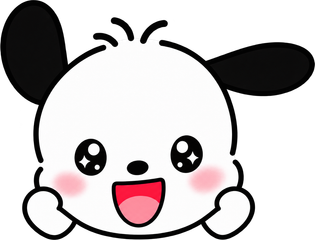
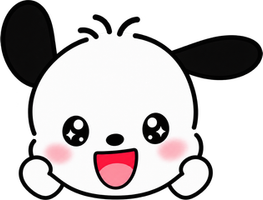
꼼톡 이모티콘 다듬기 — 크기 통일·heli 확대·탭 줄바꿈 수정
- 커플 스티커 여백 제거(tight crop)+높이 200 통일 → 피커에서 다 같은 크기 (pat 729→263px 등)
- heli 전송 크기 w-74vw→88vw(max 560) 대폭 확대 → 화면 꽉 참
- 스티커 탭 버튼 shrink-0 whitespace-nowrap + 컨테이너 overflow-x-auto → '미니' 줄바꿈 해결

diff --git a/src/components/ChatPanel.tsx b/src/components/ChatPanel.tsx
@@ -517,7 +517,7 @@ export default function ChatPanel({ me, partner, messages, open, onClose, onSend
                           <video src={m.sticker} poster={posterOf(m.sticker)} autoPlay loop muted playsInline
                             className="w-40 h-40 rounded-[26px] object-cover bg-white shadow-sm" />
                         ) : FULL_STICKERS.has(m.sticker) ? (
-                          <motion.img src={m.sticker} alt="이모티콘" className="w-[74vw] max-w-[300px] h-auto rounded-2xl shadow-sm"
+                          <motion.img src={m.sticker} alt="이모티콘" className="w-[88vw] max-w-[560px] h-auto rounded-2xl shadow-sm"
                             initial={{ scale: 0.6, opacity: 0 }}
                             animate={{ scale: 1, opacity: 1 }}
                             transition={{ scale: { type: 'spring', stiffness: 300, damping: 20 }, opacity: { duration: 0.2 } }} />
@@ -577,14 +577,14 @@ export default function ChatPanel({ me, partner, messages, open, onClose, onSend
           {/* 이모티콘 피커 (스티커=크게 따로 / 미니=글자 사이 인라인) */}
           {stickerOpen && (
             <div className="px-3 pt-2 pb-1 bg-white/80 backdrop-blur-md border-t border-black/5">
-              <div className="flex items-center gap-1 mb-2">
-                <button onClick={() => setStickerMode('sticker')} className={`px-3 py-1 rounded-full text-[12px] font-bold transition ${stickerMode === 'sticker' ? 'bg-[#FB7BA8] text-white' : 'bg-black/5 text-slate-500'}`}>스티커</button>
-                <button onClick={() => setStickerMode('mini')} className={`px-3 py-1 rounded-full text-[12px] font-bold transition ${stickerMode === 'mini' ? 'bg-[#FB7BA8] text-white' : 'bg-black/5 text-slate-500'}`}>미니</button>
-                <button onClick={() => setStickerMode('couple')} className={`px-3 py-1 rounded-full text-[12px] font-bold transition ${stickerMode === 'couple' ? 'bg-[#FB7BA8] text-white' : 'bg-black/5 text-slate-500'}`}>커플</button>
-                <button onClick={() => setStickerMode('dang')} className={`px-3 py-1 rounded-full text-[12px] font-bold transition ${stickerMode === 'dang' ? 'bg-[#FB7BA8] text-white' : 'bg-black/5 text-slate-500'}`}>Dang&apos;s</button>
-                <button onClick={() => setStickerMode('kkom')} className={`px-3 py-1 rounded-full text-[12px] font-bold transition ${stickerMode === 'kkom' ? 'bg-[#FB7BA8] text-white' : 'bg-black/5 text-slate-500'}`}>kkom&apos;s</button>
-                {stickerMode === 'mini' && <span className="ml-1 text-[11px] text-slate-400">글자 사이에 콕콕 넣기</span>}
-                {stickerMode === 'couple' && <span className="ml-1 text-[11px] text-slate-400">움직이는 커플 · 톡엔 (단어)로도</span>}
+              <div className="flex items-center gap-1 mb-2 overflow-x-auto">
+                <button onClick={() => setStickerMode('sticker')} className={`shrink-0 whitespace-nowrap px-3 py-1 rounded-full text-[12px] font-bold transition ${stickerMode === 'sticker' ? 'bg-[#FB7BA8] text-white' : 'bg-black/5 text-slate-500'}`}>스티커</button>
+                <button onClick={() => setStickerMode('mini')} className={`shrink-0 whitespace-nowrap px-3 py-1 rounded-full text-[12px] font-bold transition ${stickerMode === 'mini' ? 'bg-[#FB7BA8] text-white' : 'bg-black/5 text-slate-500'}`}>미니</button>
+                <button onClick={() => setStickerMode('couple')} className={`shrink-0 whitespace-nowrap px-3 py-1 rounded-full text-[12px] font-bold transition ${stickerMode === 'couple' ? 'bg-[#FB7BA8] text-white' : 'bg-black/5 text-slate-500'}`}>커플</button>
+                <button onClick={() => setStickerMode('dang')} className={`shrink-0 whitespace-nowrap px-3 py-1 rounded-full text-[12px] font-bold transition ${stickerMode === 'dang' ? 'bg-[#FB7BA8] text-white' : 'bg-black/5 text-slate-500'}`}>Dang&apos;s</button>
+                <button onClick={() => setStickerMode('kkom')} className={`shrink-0 whitespace-nowrap px-3 py-1 rounded-full text-[12px] font-bold transition ${stickerMode === 'kkom' ? 'bg-[#FB7BA8] text-white' : 'bg-black/5 text-slate-500'}`}>kkom&apos;s</button>
+                {stickerMode === 'mini' && <span className="ml-1 shrink-0 whitespace-nowrap text-[11px] text-slate-400">글자 사이에 콕콕 넣기</span>}
+                {stickerMode === 'couple' && <span className="ml-1 shrink-0 whitespace-nowrap text-[11px] text-slate-400">움직이는 커플 · 톡엔 (단어)로도</span>}
               </div>
               {stickerMode === 'couple' ? (
                 <div className="flex flex-wrap gap-2 justify-center content-start max-h-52 overflow-y-auto py-1">
